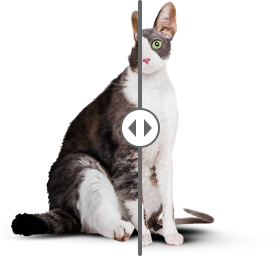
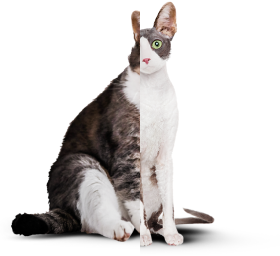
правки по замечаниям к 5 разделу

Changed region(s): [[0.4286, 0.0, 0.5714, 1.0]]

diff --git a/source/sass/blocks/show-all.scss b/source/sass/blocks/show-all.scss
@@ -1,31 +1,16 @@
 .show-all {
-  padding: 25px 0;
+  padding-top: 78px;
+  padding-bottom: 25px;
 }
 
-.show-all__plus {
-  display: block;
-  margin: 0 auto;
-  margin-bottom: 23px;
-  width: 30px;
-  height: 30px;
-  position: relative;
-}
-
-.show-all__plus::after,
-.show-all__plus::before {
-  position: absolute;
-  content: "";
-  width: 100%;
-  height: 2px;
-  left: 0;
-  top: 50%;
-  transform: translateY(-50%);
-  background-color: $altoLight;
-}
-
-.show-all__plus::after {
-  transform: translateY(-50%) rotate(90deg);
-}
+// .show-all__plus {
+//   display: block;
+//   margin: 0 auto;
+//   margin-bottom: 23px;
+//   width: 30px;
+//   height: 30px;
+//   position: relative;
+// }
 
 
 .show-all__title {
@@ -35,6 +20,23 @@
   margin-bottom: 8px;
   text-transform: uppercase;
   text-align: center;
+  position: relative;
+}
+
+.show-all__title::after,
+.show-all__title::before {
+  position: absolute;
+  content: "";
+  width: 30px;
+  height: 2px;
+  top: -38px;
+  left: 50%;
+  transform: translateX(-50%);
+  background-color: $altoLight;
+}
+
+.show-all__title::after {
+  transform: translateX(-50%) rotate(90deg);
 }
 
 .show-all__text {
@@ -56,20 +58,20 @@
   .show-all {
     height: 430px;
     margin-top: auto;
-    padding: 52px 37px 38px 38px;
+    padding: 161px 37px 38px 38px;
     border: 2px solid $basicGrey;
-  }
-
-  .show-all__plus {
-    width: 60px;
-    height: 60px;
-    margin-bottom: 49px;
   }
 
   .show-all__title {
     @include fontStyle(20px, 22px);
     width: 134px;
     margin-bottom: 23px;
+  }
+
+  .show-all__title::after,
+  .show-all__title::before {
+    width: 60px;
+    top: -79px;
   }
 
   .show-all__text {
@@ -81,7 +83,7 @@
 
 @media (min-width: $desktop-width) {
   .show-all {
-    padding: 51px 38px 41px 38px;
+    padding: 160px 38px 41px 38px;
     height: 431px;
   }
 }

diff --git a/source/form.html b/source/form.html
@@ -112,22 +112,22 @@
               <legend class="form__legend form__legend--checkbox">Дополнительно</legend>
               <div class="checkbox__wrapper">
                 <label class="checkbox__label">
-                  <input class="checkbox__contol" type="checkbox" name="sweetener" checked>
+                  <input class="checkbox__control" type="checkbox" name="sweetener" checked>
                   <span class="checkbox__mark"></span>
                   <span class="checkbox__text">Сахарозаменитель</span>
                 </label>
                 <label class="checkbox__label">
-                  <input class="checkbox__contol" type="checkbox" name="water">
+                  <input class="checkbox__control" type="checkbox" name="water">
                   <span class="checkbox__mark"></span>
                   <span class="checkbox__text">Питьевая вода</span>
                 </label>
                 <label class="checkbox__label">
-                  <input class="checkbox__contol" type="checkbox" name="milk">
+                  <input class="checkbox__control" type="checkbox" name="milk">
                   <span class="checkbox__mark"></span>
                   <span class="checkbox__text">Молоко</span>
                 </label>
                 <label class="checkbox__label checkbox__label--last">
-                  <input class="checkbox__contol" type="checkbox" name="vitamins">
+                  <input class="checkbox__control" type="checkbox" name="vitamins">
                   <span class="checkbox__mark"></span>
                   <span class="checkbox__text">Витамины</span>
                 </label>

diff --git a/source/index.html b/source/index.html
@@ -117,11 +117,21 @@
             </div>
           </div>
           <div class="results__slider slider">
-            <picture>
-              <source media="(min-width: 768px)" srcset="img/cat-slider-tablet.png">
-              <img class="slider__image" src="img/cat-slider-mobile.png" width="280" height="256" alt="Кот с избыточным весом">
-            </picture>
-            <div class="slider__control"></div>
+            <div class="slider__wrapper">
+              <button class="slider__control">
+                <svg class="slider__control-icon" width="40" height="40" viewBox="0 0 40 40" fill="none" xmlns="http://www.w3.org/2000/svg">
+                  <rect x="1" y="1" width="38" height="38" rx="19" fill="#fff"/>
+                  <path d="m16 11-8 9 8 9V11ZM32 20l-8-9v18l8-9Z" fill="#666"/>
+                  <rect x="1" y="1" width="38" height="38" rx="19" stroke="#666" stroke-width="2"/>
+                </svg>
+              </button>
+              <div class="slider__gallery">
+                <picture>
+                  <source media="(min-width: 768px)" srcset="img/cat-slider-tablet.png">
+                  <img class="slider__image" src="img/cat-slider-mobile.png" width="280" height="256" alt="Кот с избыточным весом">
+                </picture>
+              </div>
+            </div>
           </div>
         </div>
       </section>

diff --git a/source/sass/blocks/checkbox.scss b/source/sass/blocks/checkbox.scss
@@ -16,7 +16,7 @@
   }
 }
 
-.checkbox__contol:disabled {
+.checkbox__control:disabled {
   + .checkbox__mark {
     border-color: $silverSteel;
     opacity: 0.3;
@@ -31,8 +31,19 @@
   margin-bottom: 0;
 }
 
-.checkbox__contol {
-  display: none;
+.checkbox__control {
+  position: absolute;
+  appearance: none;
+}
+
+.checkbox__control:focus {
+  + .checkbox__mark {
+    outline: 3px solid $black;
+  }
+
+  ~ .checkbox__text {
+    opacity: 0.6;
+  }
 }
 
 .checkbox__mark {
@@ -42,7 +53,7 @@
   border: 1px solid $silverGrey;
 }
 
-.checkbox__contol:checked + .checkbox__mark {
+.checkbox__control:checked + .checkbox__mark {
   background-image: url("../img/checkbox-mark.svg");
   background-position: center;
   background-repeat: no-repeat;
@@ -79,7 +90,7 @@
     margin: 0;
   }
 
-  .checkbox__contol:checked + .checkbox__mark {
+  .checkbox__control:checked + .checkbox__mark {
     background-image: url("../img/checkbox-mark-tablet.svg");
     background-position: center;
     background-repeat: no-repeat;

diff --git a/source/sass/blocks/slider.scss b/source/sass/blocks/slider.scss
@@ -1,3 +1,56 @@
+.slider__wrapper {
+  position: relative;
+}
+
+.slider__control {
+  position: absolute;
+  padding: 0;
+  width: 4px;
+  height: 100%;
+  top: 0;
+  left: 50%;
+  transform: translateX(-50%);
+  background-color: $doveGrey;
+  border: none;
+  border-radius: 2px;
+}
+
+.slider__control:hover {
+  background-color: $basicGreen;
+
+  .slider__control-icon {
+    rect {
+      stroke: $basicGreen;
+    }
+
+    path {
+      fill: $basicGreen;
+    }
+  }
+}
+
+.slider__control:active {
+  background-color: $appleGreen;
+  opacity: 0.6;
+
+  .slider__control-icon {
+    rect {
+      stroke: $appleGreen;
+    }
+
+    path {
+      fill: $appleGreen;
+    }
+  }
+}
+
+.slider__control-icon {
+  position: absolute;
+  top: 50%;
+  left: 50%;
+  transform: translate(-50%, -50%);
+}
+
 .slider__image {
   display: block;
   margin: 0 auto;

diff --git a/source/catalog.html b/source/catalog.html
@@ -180,7 +180,6 @@
               <button class="product-card__button button" type="button">Заказать</button>
             </li>
             <li class="goods__item show-all divider">
-              <span class="show-all__plus"></span>
               <p class="show-all__title">Показать еще 100500 товаров</p>
               <p class="show-all__text">На самом деле вкусов гораздо больше!</p>
               <button class="show-all__button button button--light" type="button">Показать все</button>

diff --git a/source/sass/blocks/radio.scss b/source/sass/blocks/radio.scss
@@ -43,9 +43,19 @@
 }
 
 .radio__control {
+  position: absolute;
   appearance: none;
 }
 
+.radio__control:focus {
+  + .radio__mark {
+    outline: 3px solid $black;
+  }
+
+  ~ .radio__label {
+    opacity: 0.6;
+  }
+}
 
 .radio__mark {
   display: block;
@@ -55,6 +65,7 @@
   border-radius: 50%;
   position: relative;
 }
+
 
 .radio__control:checked + .radio__mark::after {
   position: absolute;

diff --git a/source/sass/blocks/main-header.scss b/source/sass/blocks/main-header.scss
@@ -67,7 +67,7 @@
 @media (min-width: $desktop-width) {
   .main-header {
     width: auto;
-    max-width: 1800px;
+    max-width: $desktop-width;
     margin-top: 54px;
     padding: 0 110px;
   }

diff --git a/source/sass/blocks/footer.scss b/source/sass/blocks/footer.scss
@@ -66,6 +66,7 @@
 
 @media (min-width: $desktop-width) {
   .footer__wrapper {
+    width: $desktop-width;
     padding-top: 57px;
     padding-bottom: 58px;
   }
